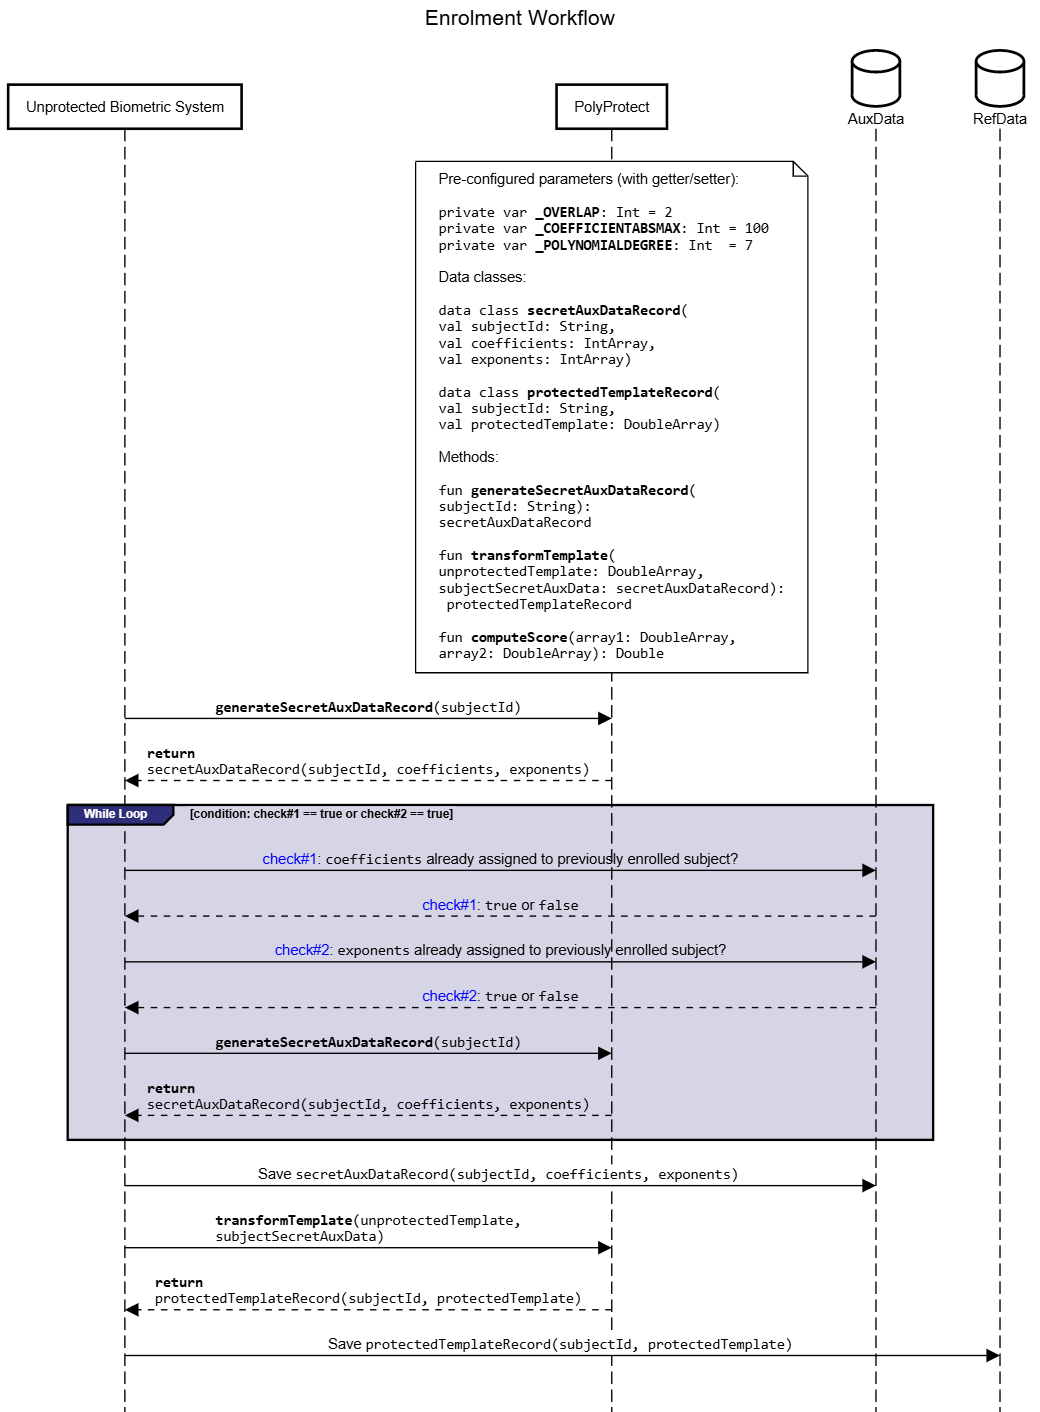
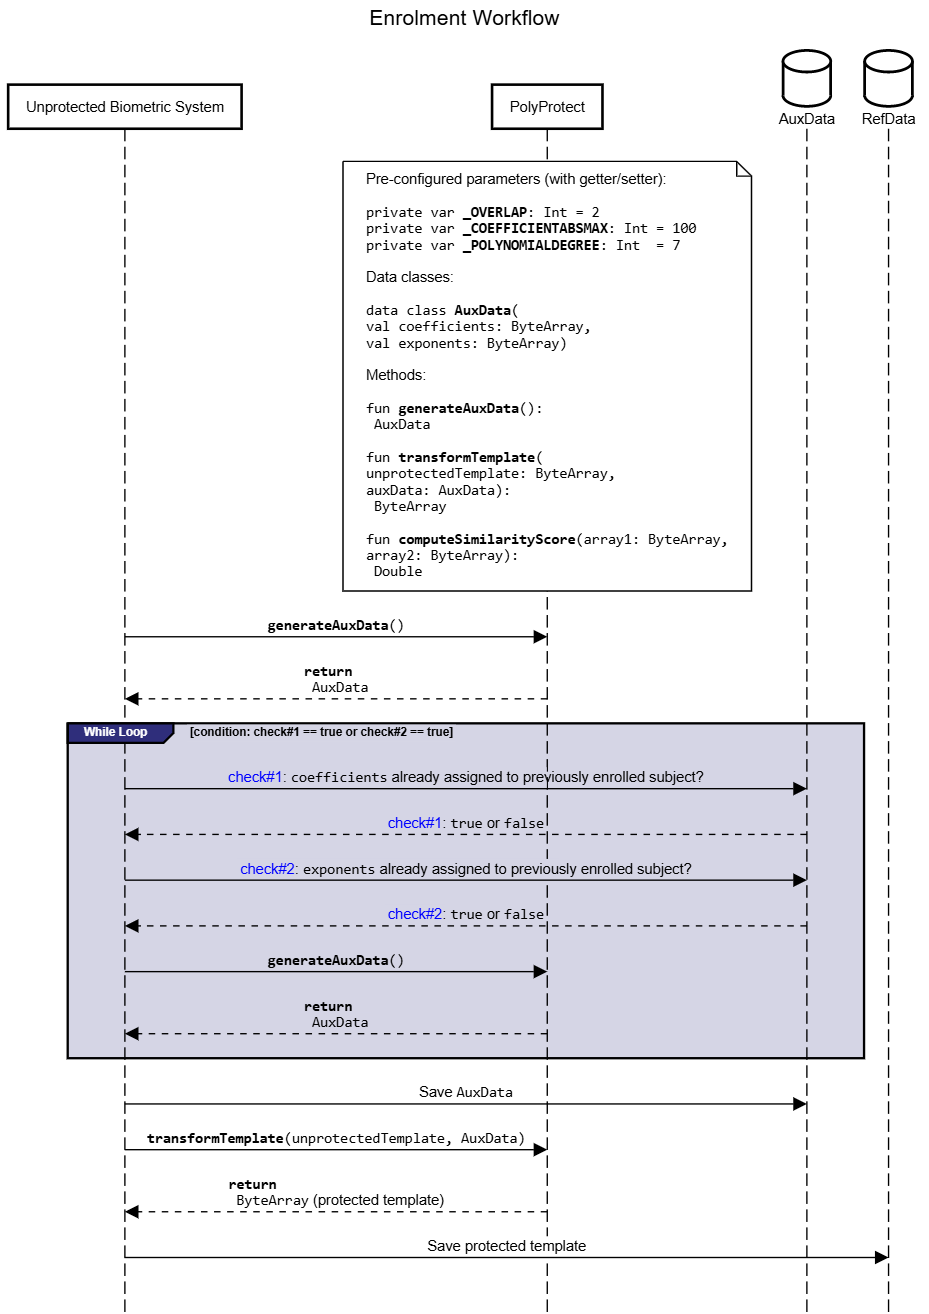
Changed library input to ByteArray, updated images for README

diff --git a/src/main/kotlin/com/simprints/biometrics/polyprotect/PolyProtect.kt b/src/main/kotlin/com/simprints/biometrics/polyprotect/PolyProtect.kt
@@ -37,39 +37,44 @@ class PolyProtect(
      *
      * **NOTE**: The size of the protected templates depends on `polynomialDegree` and `overlap`.
      *
-     * @param unprotectedTemplate
+     * @param unprotectedTemplateByteArray
      * @param auxData a set of coefficients and exponents associated with specific biometric record
      *
      * @return protected template
      */
     fun transformTemplate(
-        unprotectedTemplate: DoubleArray,
+        unprotectedTemplate: ByteArray,
         auxData: AuxData
-    ): DoubleArray {
+    ): ByteArray {
         val (coefficients, exponents) = auxData // For convenience
         require(exponents.size == coefficients.size) { "Auxiliary data sizes must be equal." }
-        require(exponents.size == polynomialDegree) {
+        require(Utils.byteArrayToIntArray(exponents).size == polynomialDegree) {
             "Auxiliary data sizes must be equal to polynomial degree."
         }
 
-        val stepSize = exponents.size - overlap
+        // Converting from ByteArray
+        val unprotectedTemplateDoubleArray = Utils.byteArrayToDoubleArray(unprotectedTemplate)
+        val coefficientsIntArray = Utils.byteArrayToIntArray(coefficients)
+        val exponentsIntArray = Utils.byteArrayToIntArray(exponents)
+
+        val stepSize = exponentsIntArray.size - overlap
 
         val protectedTemplate = mutableListOf<Double>()
-        for (templateIndex in 0..(unprotectedTemplate.lastIndex - overlap) step stepSize) {
-            val s = exponents.indices.map { i ->
+        for (templateIndex in 0..(unprotectedTemplateDoubleArray.lastIndex - overlap) step stepSize) {
+            val s = exponentsIntArray.indices.map { i ->
                 // If the target element is out of bounds, consider it 0 since 0^n==0
                 // This would be the same as padding the provided array up to certain size
-                if (templateIndex + i > unprotectedTemplate.lastIndex) {
+                if (templateIndex + i > unprotectedTemplateDoubleArray.lastIndex) {
                     0.0
                 } else {
-                    unprotectedTemplate[templateIndex + i]
-                        .pow(exponents[i])
-                        .times(coefficients[i])
+                    unprotectedTemplateDoubleArray[templateIndex + i]
+                        .pow(exponentsIntArray[i])
+                        .times(coefficientsIntArray[i])
                 }
             }.sum()
             protectedTemplate.add(s)
         }
-        return protectedTemplate.toDoubleArray()
+        return Utils.doubleArrayToByteArray(protectedTemplate.toDoubleArray())
     }
 
     /**
@@ -90,7 +95,7 @@ class PolyProtect(
         // Shuffle the list randomly
         val exponents = exponentRange.shuffled().toIntArray()
 
-        return AuxData(coefficients, exponents)
+        return AuxData(Utils.intArrayToByteArray(coefficients), Utils.intArrayToByteArray(exponents))
     }
 
     companion object {

diff --git a/src/test/java/com/simprints/biometrics/polyprotect/PolyProtectUnitTest.kt b/src/test/java/com/simprints/biometrics/polyprotect/PolyProtectUnitTest.kt
@@ -21,19 +21,19 @@ class PolyProtectUnitTest {
         val secrets1 = polyProtect.generateAuxData()
 
         assertEquals(
-            "Exponents count is same as provided polynomial degree", 7, secrets1.exponents.size
+            "Exponents count is same as provided polynomial degree", 7, Utils.byteArrayToIntArray(secrets1.exponents).size
         )
         assertTrue(
             "The exponents should include values from 1 to PolyProtect.POLYNOMIALDEGREE.",
-            secrets1.exponents.sortedArray().contentEquals(IntArray(7) { it + 1 })
+            Utils.byteArrayToIntArray(secrets1.exponents).sortedArray().contentEquals(IntArray(7) { it + 1 })
         )
 
         assertEquals(
-            "Coefficient count is same as provided polynomial degree", 7, secrets1.coefficients.size
+            "Coefficient count is same as provided polynomial degree", 7, Utils.byteArrayToIntArray(secrets1.coefficients).size
         )
         assertTrue("The coefficient values should not be outside the allowed range",
-            secrets1.coefficients.all { it in -100..100 })
-        assertTrue("The coefficient values must not be 0", secrets1.coefficients.none { it == 0 })
+            Utils.byteArrayToIntArray(secrets1.coefficients).all { it in -100..100 })
+        assertTrue("The coefficient values must not be 0", Utils.byteArrayToIntArray(secrets1.coefficients).none { it == 0 })
 
     }
 
@@ -45,7 +45,7 @@ class PolyProtectUnitTest {
         val exponents = intArrayOf(1, 5, 3, 4, 6, 2, 7)
 
         val subjectSecretAuxData = AuxData(
-            coefficients = coefficients, exponents = exponents
+            coefficients = Utils.intArrayToByteArray(coefficients), exponents = Utils.intArrayToByteArray(exponents)
         )
 
         // Custom parameters (relevant to the generation of secret auxiliary data record)
@@ -56,9 +56,12 @@ class PolyProtectUnitTest {
         )
 
         // Creation of two unprotected templates (randomly generated)
-        val unprotectedTemplate = DoubleArray(512) { Random.nextDouble() - 0.5 }
+        val unprotectedTemplateDoubleArray = DoubleArray(512) { Random.nextDouble() - 0.5 }
 
-        // PolyProtect trandformation: the unprotected templates are transformed using the
+        // Transformation of unprotected template into ByteArray
+        val unprotectedTemplate = Utils.doubleArrayToByteArray(unprotectedTemplateDoubleArray)
+
+        // PolyProtect transformation: the unprotected templates are transformed using the
         // subject-specific secret auxiliary data
         val protectedTemplate = polyProtect.transformTemplate(
             unprotectedTemplate = unprotectedTemplate, auxData = subjectSecretAuxData

diff --git a/src/main/kotlin/com/simprints/biometrics/polyprotect/Utils.kt b/src/main/kotlin/com/simprints/biometrics/polyprotect/Utils.kt
@@ -1,0 +1,52 @@
+import java.nio.ByteBuffer
+import java.nio.ByteOrder
+
+object Utils {
+    /**
+     * Converts a DoubleArray to a ByteArray.
+     *
+     * @param doubleArray The DoubleArray to convert.
+     * @return A ByteArray representing the DoubleArray.
+     */
+    fun doubleArrayToByteArray(doubleArray: DoubleArray): ByteArray {
+        val byteBuffer = ByteBuffer.allocate(doubleArray.size * 8).order(ByteOrder.nativeOrder())
+        byteBuffer.asDoubleBuffer().put(doubleArray)
+        return byteBuffer.array()
+    }
+
+    /**
+     * Converts a ByteArray back to a DoubleArray.
+     *
+     * @param byteArray The ByteArray to convert.
+     * @return A DoubleArray reconstructed from the ByteArray.
+     */
+    fun byteArrayToDoubleArray(byteArray: ByteArray): DoubleArray {
+        val byteBuffer = ByteBuffer.wrap(byteArray).order(ByteOrder.nativeOrder())
+        val doubleBuffer = byteBuffer.asDoubleBuffer()
+        return DoubleArray(doubleBuffer.remaining()).apply { doubleBuffer.get(this) }
+    }
+
+    /**
+     * Converts an IntArray to a ByteArray.
+     *
+     * @param intArray The IntArray to convert.
+     * @return A ByteArray representing the IntArray.
+     */
+    fun intArrayToByteArray(intArray: IntArray): ByteArray {
+        val byteBuffer = ByteBuffer.allocate(intArray.size * 4).order(ByteOrder.nativeOrder())
+        byteBuffer.asIntBuffer().put(intArray)
+        return byteBuffer.array()
+    }
+
+    /**
+     * Converts a ByteArray back to an IntArray.
+     *
+     * @param byteArray The ByteArray to convert.
+     * @return An IntArray reconstructed from the ByteArray.
+     */
+    fun byteArrayToIntArray(byteArray: ByteArray): IntArray {
+        val byteBuffer = ByteBuffer.wrap(byteArray).order(ByteOrder.nativeOrder())
+        val intBuffer = byteBuffer.asIntBuffer()
+        return IntArray(intBuffer.remaining()).apply { intBuffer.get(this) }
+    }
+}

diff --git a/src/test/java/com/simprints/biometrics/polyprotect/ComputeSimilarityScoreTest.kt b/src/test/java/com/simprints/biometrics/polyprotect/ComputeSimilarityScoreTest.kt
@@ -10,8 +10,12 @@ class ComputeSimilarityScoreTest {
     @Test
     fun `similarity between two protected templates should be between 0 and 1`() {
         // Creation of two unprotected templates (randomly generated)
-        val unprotectedTemplate1 = DoubleArray(512) { Random.nextDouble() - 0.5 }
-        val unprotectedTemplate2 = DoubleArray(512) { Random.nextDouble() - 0.5 }
+        val unprotectedTemplateDoubleArray1 = DoubleArray(512) { Random.nextDouble() - 0.5 }
+        val unprotectedTemplateDoubleArray2 = DoubleArray(512) { Random.nextDouble() - 0.5 }
+
+        val unprotectedTemplate1 = Utils.doubleArrayToByteArray(unprotectedTemplateDoubleArray1)
+        val unprotectedTemplate2 = Utils.doubleArrayToByteArray(unprotectedTemplateDoubleArray2)
+
 
         // Custom parameters
         val polyProtect = PolyProtect(

diff --git a/src/main/kotlin/com/simprints/biometrics/polyprotect/SimilarityScore.kt b/src/main/kotlin/com/simprints/biometrics/polyprotect/SimilarityScore.kt
@@ -11,10 +11,13 @@ import kotlin.math.sqrt
  * @return a value in in the `[0,1]` range
  */
 fun computeSimilarityScore(
-    array1: DoubleArray,
-    array2: DoubleArray,
+    array1ByteArray: ByteArray,
+    array2ByteArray: ByteArray,
 ): Double {
-    require(array1.size == array2.size) { "Arrays must be of the same size." }
+    require(array1ByteArray.size == array2ByteArray.size) { "Arrays must be of the same size." }
+
+    val array1 = Utils.byteArrayToDoubleArray(array1ByteArray)
+    val array2 = Utils.byteArrayToDoubleArray(array2ByteArray)
 
     // Calculate the dot product of array1 and array2
     val dotProduct = array1.zip(array2) { x, y -> x * y }.sum()

diff --git a/src/main/kotlin/com/simprints/biometrics/polyprotect/AuxData.kt b/src/main/kotlin/com/simprints/biometrics/polyprotect/AuxData.kt
@@ -8,6 +8,6 @@ package com.simprints.biometrics.polyprotect
  * @param exponents of a polynomial function
  */
 data class AuxData(
-    val coefficients: IntArray,
-    val exponents: IntArray,
+    val coefficients: ByteArray,
+    val exponents: ByteArray,
 )

diff --git a/README.md b/README.md
@@ -16,7 +16,7 @@ The output of this transformation is the protected template.
 
 # Workflow
 
-In this section we report the sequence diagrams are included for integrating PolyProtect in the opserations of enrolment, verification, and indentification.
+In this section we report the sequence diagrams are included for integrating PolyProtect in the operations of enrolment, verification, and identification.
 
 ## Enrolment
 
